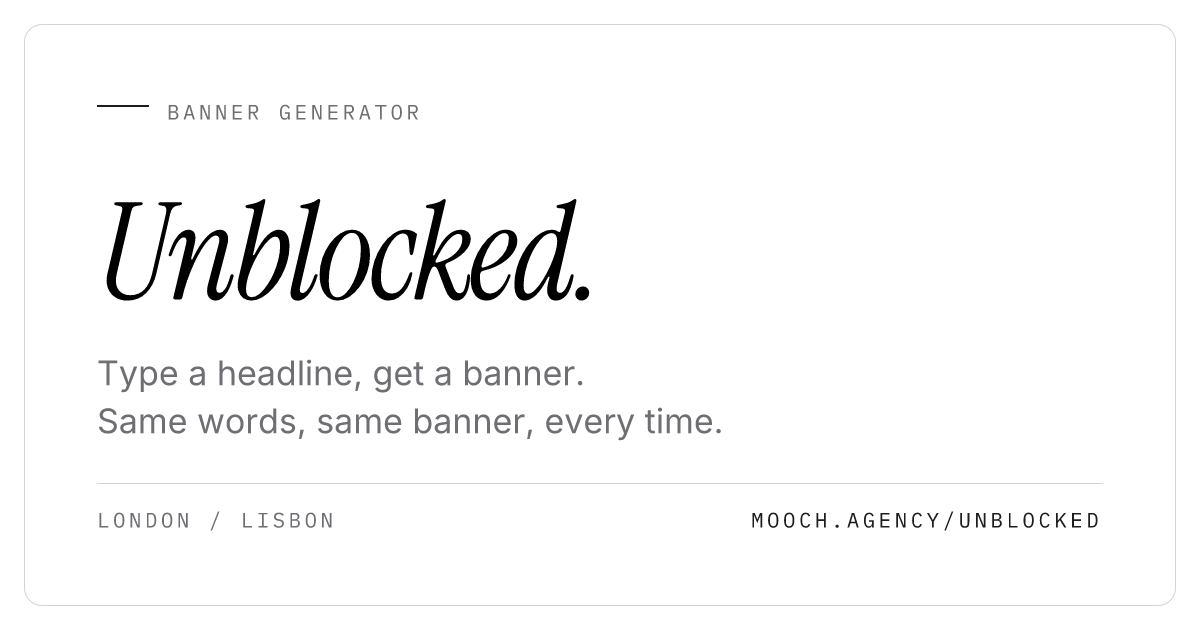
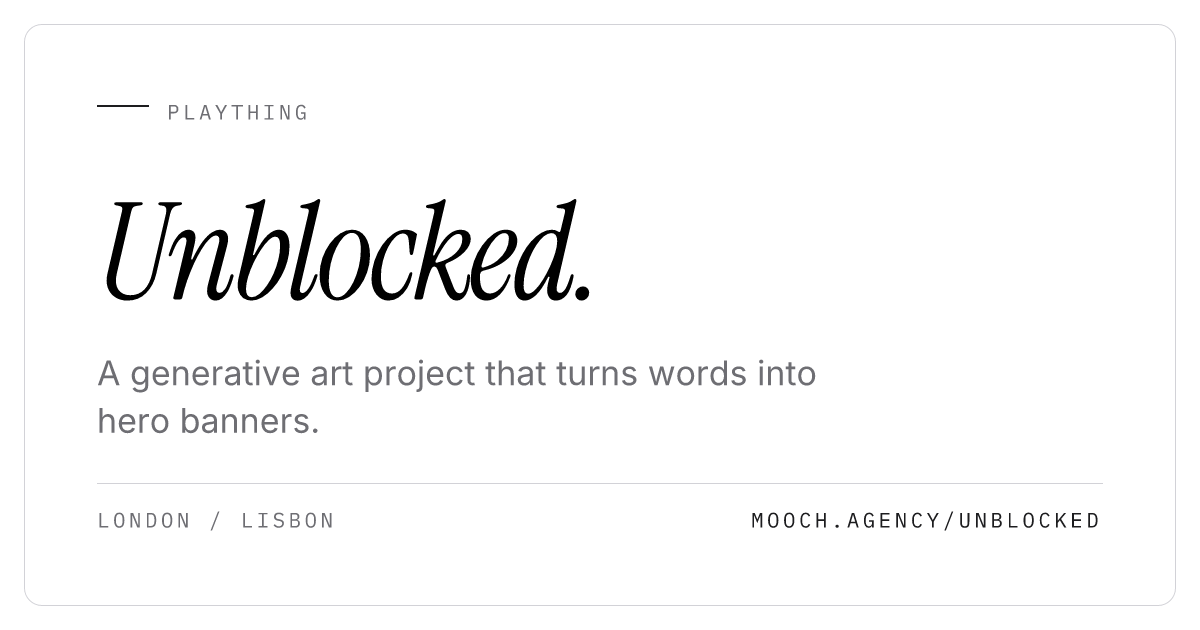
Unblocked: eyebrow "Plaything", card copy names the generative art
The eyebrow was "Banner generator", a one-off label that didn't match how
the rest of the site files Unblocked: a Plaything in the homepage bento
grid and in llms.txt, same as Paul Graham and Credit Cards, both of which
already carry "Plaything" and matching text on page and card alike.

Card subtitle now says what the thing is (a generative art project) before
what it does (turns words into hero banners), replacing copy that only
described the interaction.

Claude-Session: https://claude.ai/code/session_01X8sw7eYRc8KJR6n43WYnKA

Changed region(s): [[0.0617, 0.573, 0.6783, 0.6937], [0.1542, 0.1508, 0.3392, 0.2111]]

diff --git a/unblocked.html b/unblocked.html
@@ -13,14 +13,14 @@
 <meta property="og:url" content="https://mooch.agency/unblocked">
 <meta property="og:title" content="Unblocked. Generative banners by Mooch">
 <meta property="og:description" content="Type a headline, get a banner. Any text becomes a composition of blockquote bars, and the same words always make the same one.">
-<meta property="og:image" content="https://mooch.agency/og-unblocked.png?v=1b6c3c52">
+<meta property="og:image" content="https://mooch.agency/og-unblocked.png?v=aae7e8ea">
 <meta property="og:image:width" content="1200">
 <meta property="og:image:height" content="630">
 <meta property="og:image:alt" content="Unblocked. Type a headline, get a banner. Same words, same banner, every time.">
 <meta name="twitter:card" content="summary_large_image">
 <meta name="twitter:title" content="Unblocked. Generative banners by Mooch">
 <meta name="twitter:description" content="Type a headline, get a banner. Any text becomes a composition of blockquote bars, and the same words always make the same one.">
-<meta name="twitter:image" content="https://mooch.agency/og-unblocked.png?v=1b6c3c52">
+<meta name="twitter:image" content="https://mooch.agency/og-unblocked.png?v=aae7e8ea">
 <meta name="twitter:image:alt" content="Unblocked. Type a headline, get a banner. Same words, same banner, every time.">
 <link rel="preconnect" href="https://fonts.googleapis.com">
 <link rel="preconnect" href="https://fonts.gstatic.com" crossorigin>
@@ -524,7 +524,7 @@
 <main class="app">
 
   <section class="intro" aria-labelledby="title">
-    <p class="eyebrow reveal d1">Banner generator</p>
+    <p class="eyebrow reveal d1">Plaything</p>
     <h1 id="title" class="reveal d1"><em>Unblocked.</em></h1>
     <p class="deck reveal d2">Type a headline, get a banner. <span class="more">Same words, same banner, every time.</span></p>
     <a class="story reveal d2" href="https://moochagency.substack.com/p/unblockedbymooch" target="_blank" rel="noopener" data-event="unblocked_learn_more">How we made it <span class="arrow" aria-hidden="true">&#8599;</span></a>
